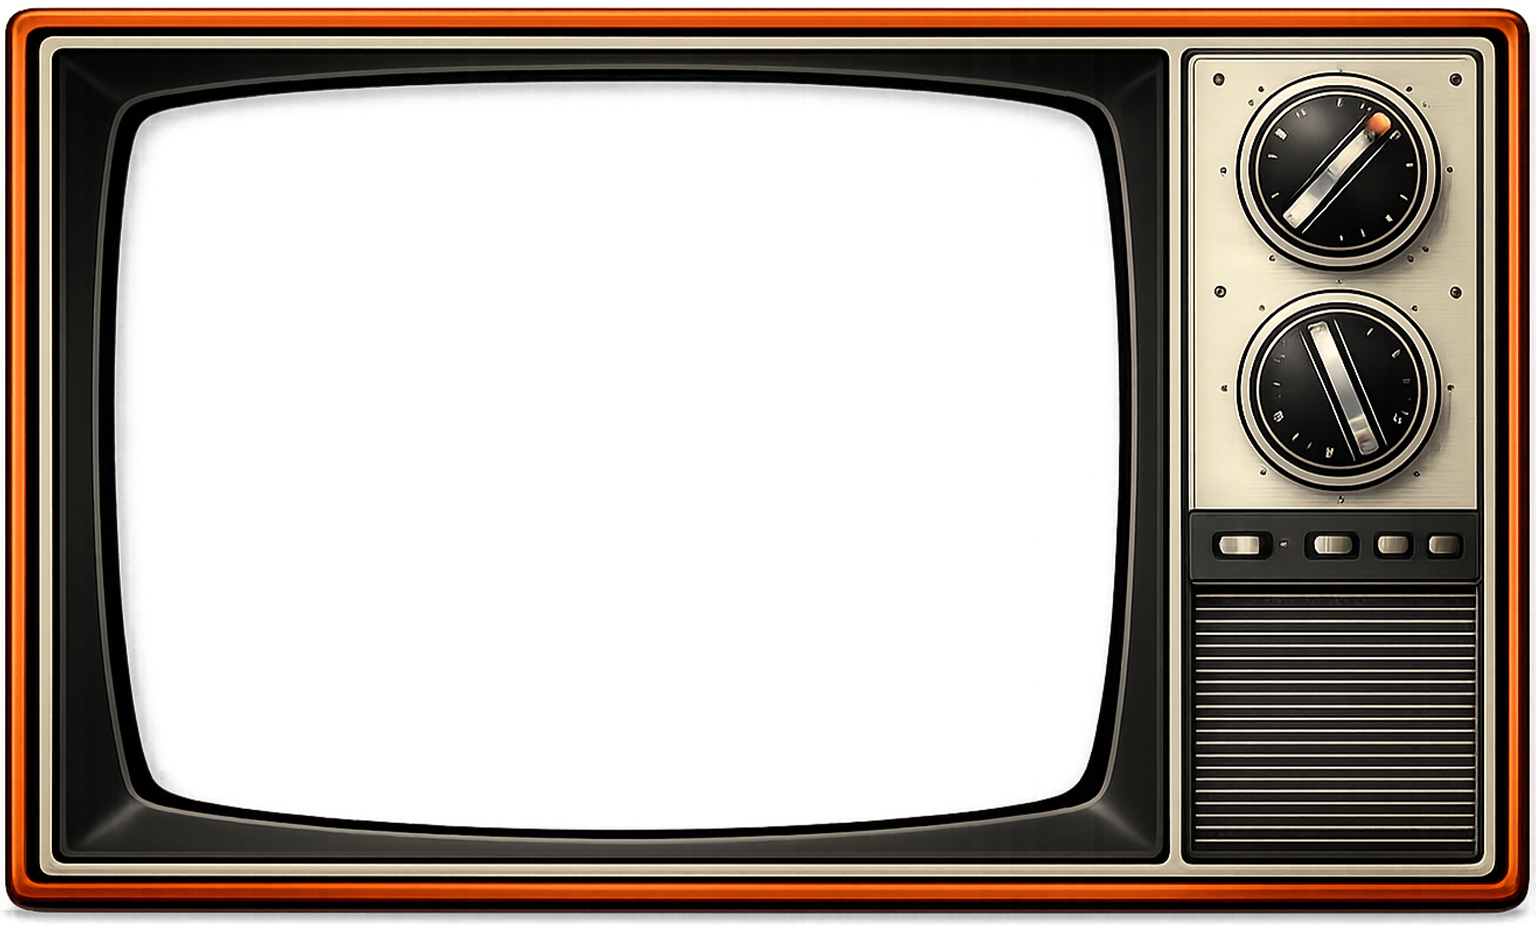
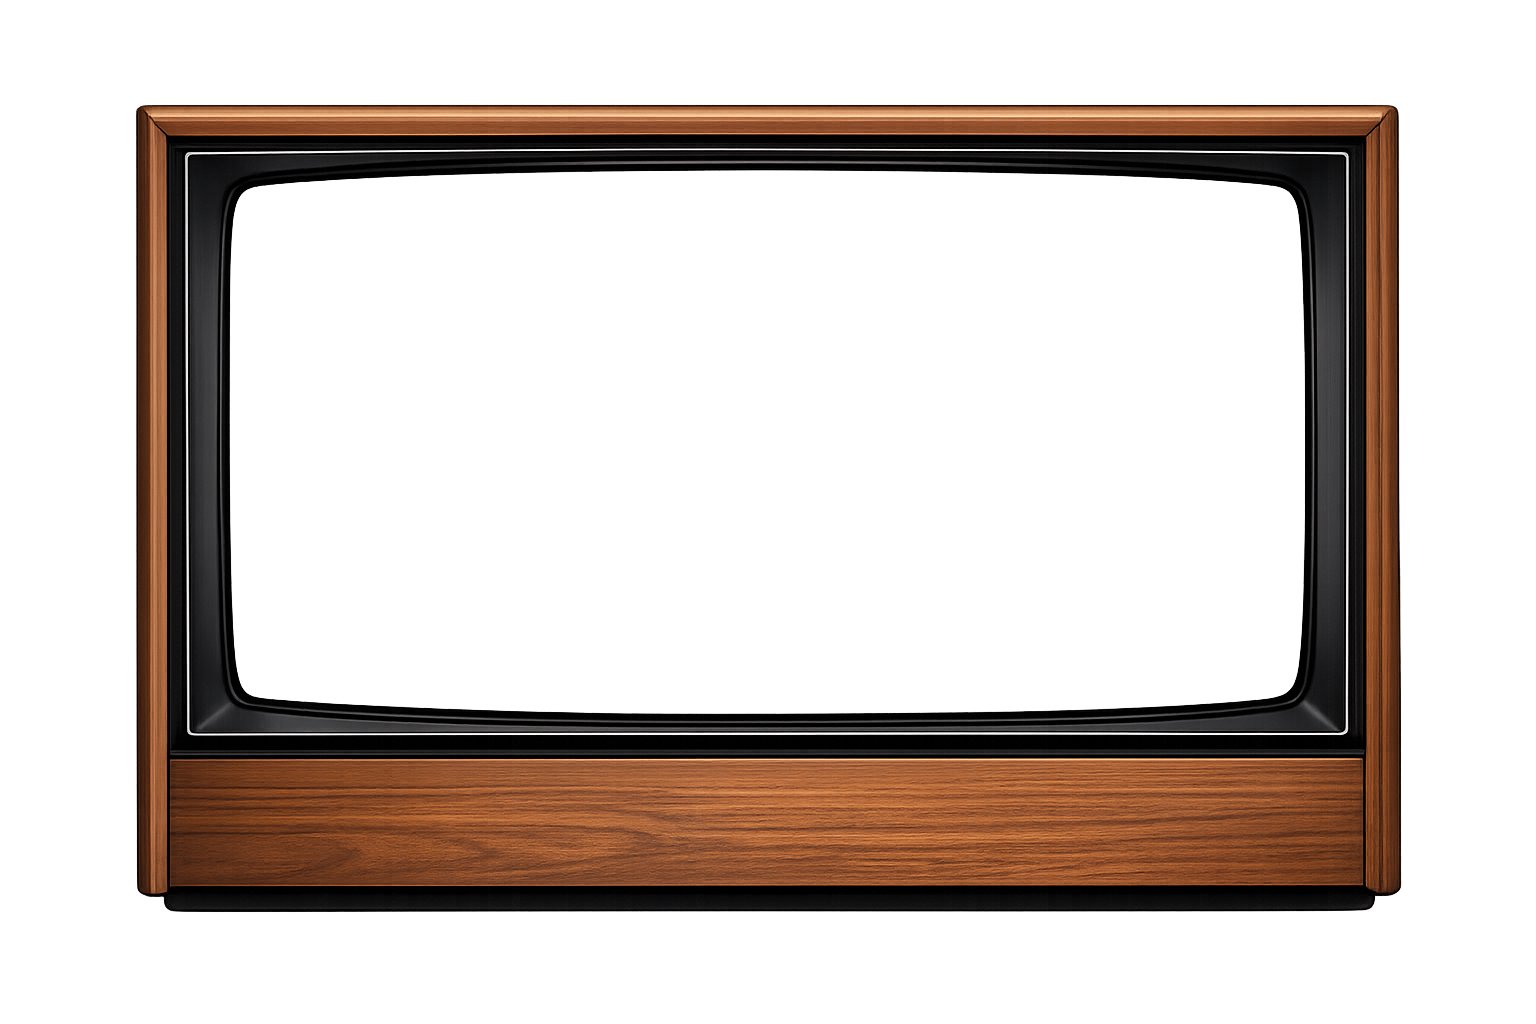
New full-width TV frame, dial centered at bottom
Updated TV frame image (no dials, full-width screen).
Screen area repositioned to match new image. Dial is now
fixed at bottom center of viewport via CSS - no dynamic
JS positioning needed.

diff --git a/_layouts/default.html b/_layouts/default.html
@@ -68,15 +68,12 @@
       const staticOverlay = document.getElementById('tv-static-overlay');
       const channelLabel = document.getElementById('tv-channel-label');
       const crtOverlay = document.querySelector('.crt-overlay');
-      const dialEl = document.getElementById('tv-dial');
       const powerOff = document.getElementById('tv-power-off');
 
       if (!frameImg || !screenContent) return;
 
       // Screen opening position as % of the TV image's natural dimensions
-      const SCREEN = { top: 5, left: 4, width: 69, height: 90 };
-      // Dial position as % of the TV image
-      const DIAL = { top: 4.5, left: 78.8, width: 7 };
+      const SCREEN = { top: 8, left: 8, width: 84, height: 72 };
 
       function updatePositions() {
         if (window.innerWidth < 1024) return;
@@ -121,16 +118,6 @@
         if (channelLabel) {
           channelLabel.style.left = (screenLeft + 10) + 'px';
           channelLabel.style.top = (screenTop + 10) + 'px';
-        }
-
-        if (dialEl) {
-          const dialLeft = offsetX + (DIAL.left / 100) * renderW;
-          const dialTop = offsetY + (DIAL.top / 100) * renderH;
-          const dialWidth = (DIAL.width / 100) * renderW;
-          dialEl.style.left = dialLeft + 'px';
-          dialEl.style.top = dialTop + 'px';
-          dialEl.style.width = dialWidth + 'px';
-          dialEl.style.right = 'auto';
         }
       }
 

diff --git a/assets/css/main.css b/assets/css/main.css
@@ -243,10 +243,14 @@ h1, h2, h3 {
     transition: opacity 0.2s;
   }
 
-  /* TV Dial - JS positions to match frame */
+  /* TV Dial - centered at bottom */
   .tv-dial {
     position: fixed;
     z-index: 200;
+    bottom: 1.5rem;
+    left: 50%;
+    transform: translateX(-50%);
+    width: 70px;
   }
 
   .tv-dial img {
